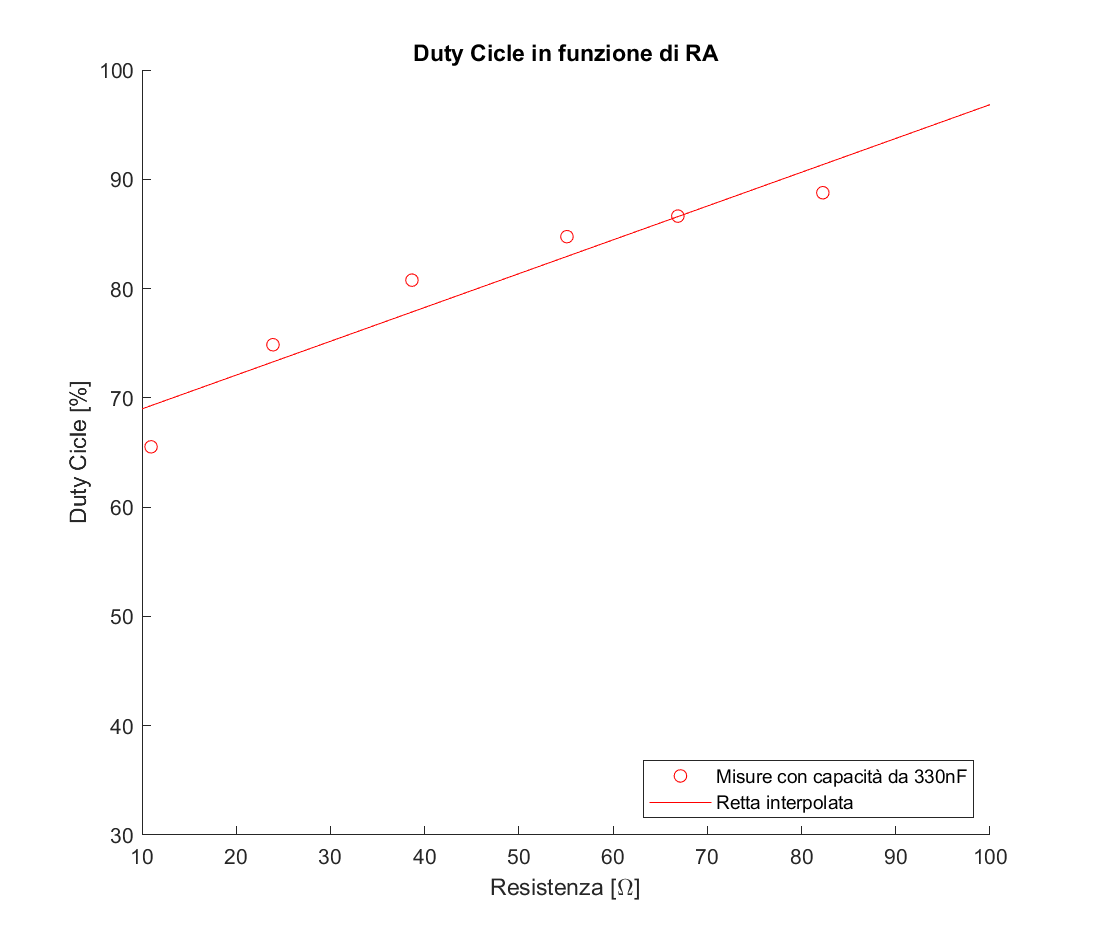
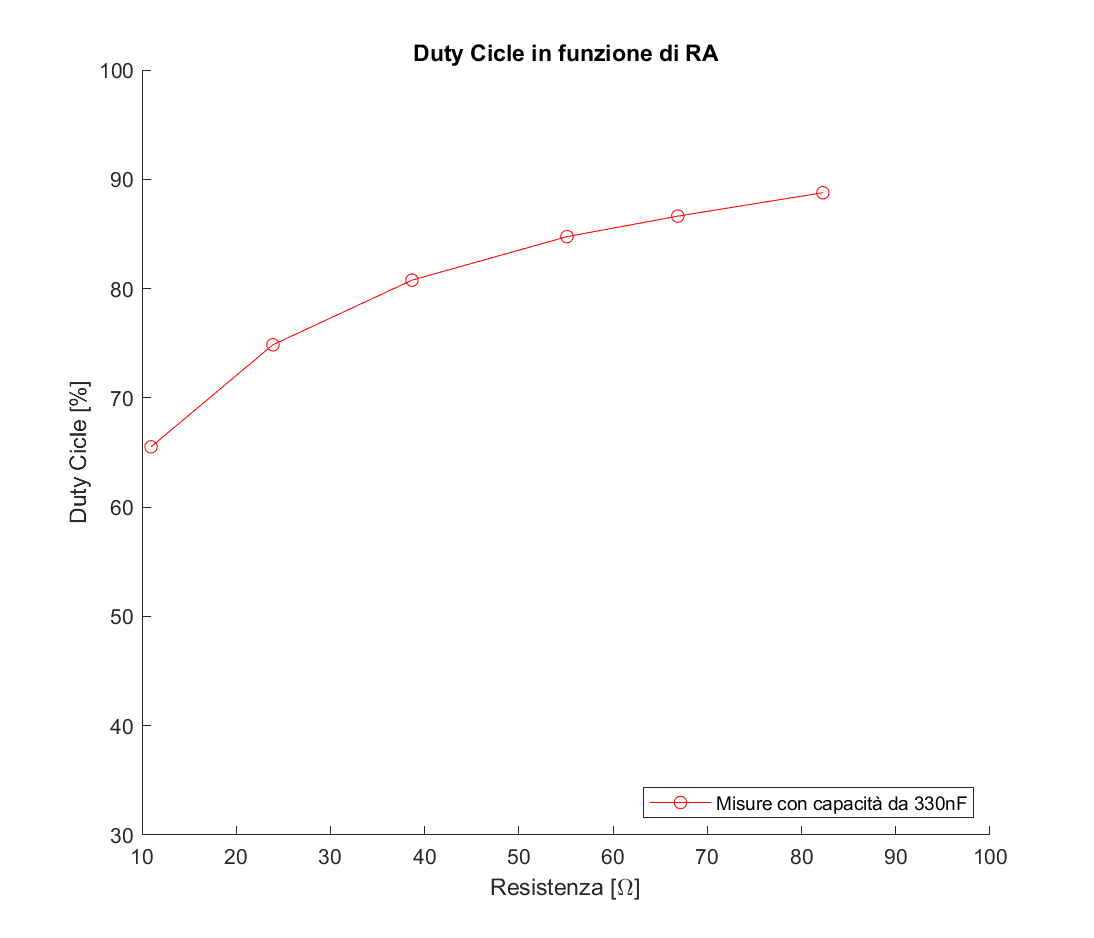
Modified Charts

diff --git a/OtherFiles/Laboratorio 5/Chart.m b/OtherFiles/Laboratorio 5/Chart.m
@@ -22,14 +22,12 @@ fitted_3 = fit3.Coefficients.Estimate(1) + fit3.Coefficients.Estimate(2) * x;
 % Plotto il grafico
 gcf = figure
 hold on
-plot(RA, freq_c1, 'or')
-plot(RA, freq_c2, 'ob')
-plot(x, fitted_1, 'r')
-plot(x, fitted_2, 'b')
+plot(RA, freq_c1, '-or')
+plot(RA, freq_c2, '-ob')
+%plot(x, fitted_1, 'r')
+%plot(x, fitted_2, 'b')
 
 legend('Misure con capacità da 330nF', 'Misure con capacità da 150nF',...
-    'Retta interpolata',...
-    'Retta interpolata',...
     'Location', 'northeast')
 
 title('Frequenza in funzione di RA e C')
@@ -43,11 +41,10 @@ saveas(gcf, 'F vs RA.png')
 
 gcf = figure
 hold on
-plot(RA, duty, 'or')
-plot(x, fitted_3, 'r')
+plot(RA, duty, '-or')
+%plot(x, fitted_3, 'r')
 
 legend('Misure con capacità da 330nF',...
-    'Retta interpolata',...
     'Location', 'southeast')
 
 title('Duty Cicle in funzione di RA')
